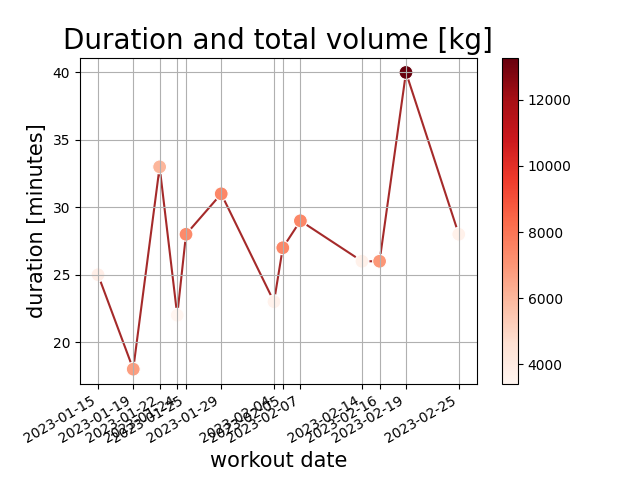
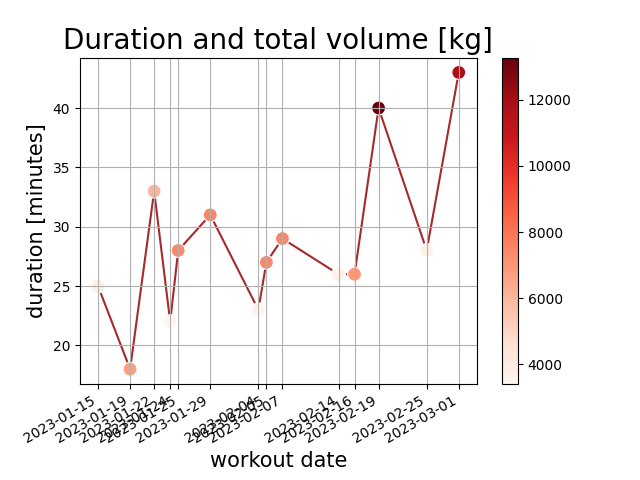
chore: add today's workout to db

diff --git a/src/CRUD/insert.py b/src/CRUD/insert.py
@@ -12,6 +12,7 @@ import json
 import os
 import pathlib
 import sys
+import yaml
 
 SCRIPT_DIR = os.path.dirname(os.path.abspath(__file__))
 sys.path.append(os.path.dirname(SCRIPT_DIR))
@@ -70,7 +71,27 @@ def insert_specific_log(date: str, table, workout_number: int = 1) -> None:
 
     YEAR, MONTH = lookup.get_year_and_month(date)
     athlete = "gustav_rasmussen"
-    base_path = f"data/{athlete}/log_archive/JSON/{YEAR}/{MONTH}/*training_log_{date}"
+
+    with open("local_assets/private_config.json", "r") as private_config:
+        DATA = json.load(private_config)
+        USER = DATA["user"]
+        EMAIL = DATA["email"]
+
+    athlete = "gustav_rasmussen"
+    user = USER
+    email = EMAIL
+
+    with open("config.yml", "r") as rf:
+        DATA = yaml.load(rf, Loader=yaml.FullLoader)
+
+    base_path = (
+        DATA["google_drive_data_path"]
+        .replace("<ATHLETE>", athlete)
+        .replace("<USER>", user)
+        .replace("<EMAIL>", email)
+    )
+
+    base_path += f"/{athlete}/log_archive/JSON/{YEAR}/{MONTH}/*training_log_{date}"
 
     if workout_number > 1:
         base_path += f"_{workout_number}"

diff --git a/src/helpers/get_workout_duration.py b/src/helpers/get_workout_duration.py
@@ -2,11 +2,28 @@ import cProfile
 import datetime
 from datetime import datetime as dt
 import json
+import yaml  # type: ignore
 
-# from pprint import pprint as pp
+with open("local_assets/private_config.json", "r") as private_config:
+    DATA = json.load(private_config)
+    USER = DATA["user"]
+    EMAIL = DATA["email"]
 
-DATA = json.load(open(file="./config.json", encoding="utf-8"))
-file = DATA["real_workout_database"].replace("<ATHLETE>", "gustav_rasmussen")
+with open("config.yml", "r") as rf:
+    DATA = yaml.load(rf, Loader=yaml.FullLoader)
+
+DATA = {
+    d: DATA[d].replace("<GOOGLE_DRIVE_DATA_PATH>", DATA["google_drive_data_path"])
+    for d in DATA
+}
+
+file = (
+    DATA["real_workout_database"]
+    .replace("<USER>", USER)
+    .replace("<ATHLETE>", "gustav_rasmussen")
+    .replace("<EMAIL>", EMAIL)
+)
+
 with open(file) as rf:
     data = json.load(rf)["weight_training_log"]
 

diff --git a/src/helpers/set_db_and_table.py b/src/helpers/set_db_and_table.py
@@ -21,6 +21,15 @@ def set_db_and_table(
 ):
     """."""
 
+    with open("local_assets/private_config.json", "r") as private_config:
+        DATA = json.load(private_config)
+        USER = DATA["user"]
+        EMAIL = DATA["email"]
+
+    athlete = "gustav_rasmussen"
+    user = USER
+    email = EMAIL
+
     with open("config.yml", "r") as rf:
         DATA = yaml.load(rf, Loader=yaml.FullLoader)
 
